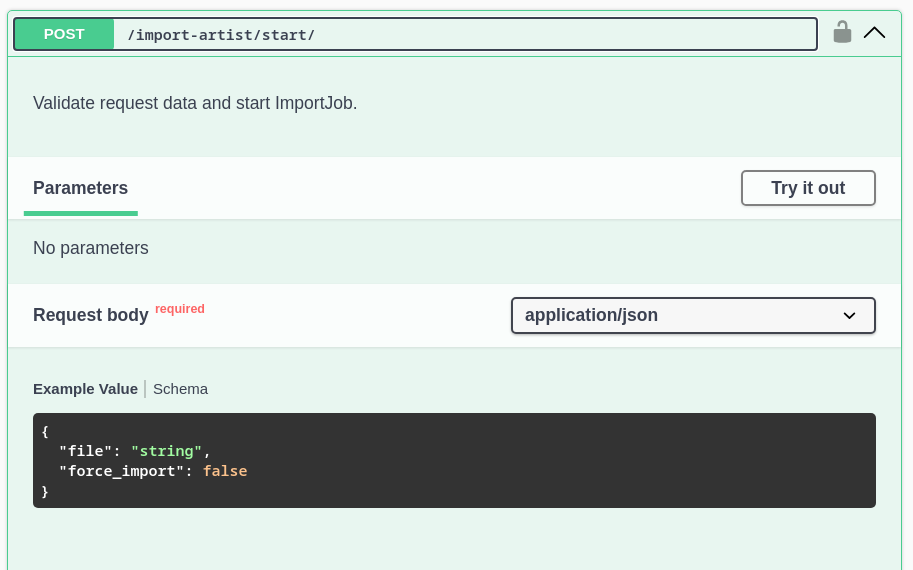
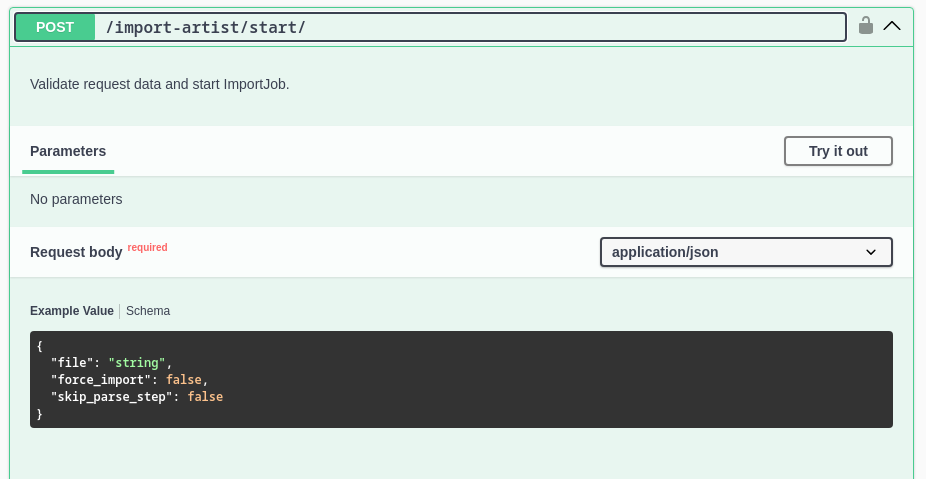
Extend docs

Changed region(s): [[0.0, 0.0, 1.0, 1.0], [0.0307, 0.1461, 0.3987, 0.2046], [0.0307, 0.4092, 0.1533, 0.4676]]

diff --git a/docs/extensions.rst b/docs/extensions.rst
@@ -201,9 +201,11 @@ ___
 API
 ___
 
-Also it can be used through api.
+In api there're 2 fields: ``force_import`` and ``skip_parse_step``.
 
-``force_import`` field available in ``start`` endpoint body:
+- ``force_import`` allows skip rows with errors.
+
+- ``skip_parse_step`` allows you to run the import task immediately, without having to call the ``confirm`` endpoint.
 
 .. image:: _static/images/start_api.png
 
